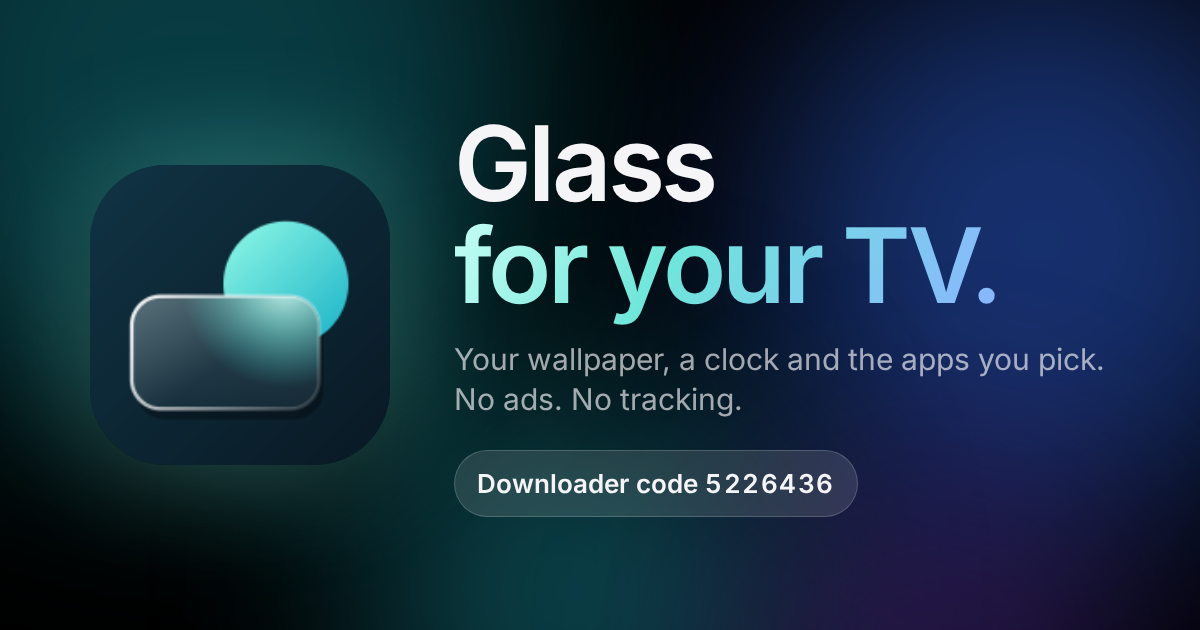
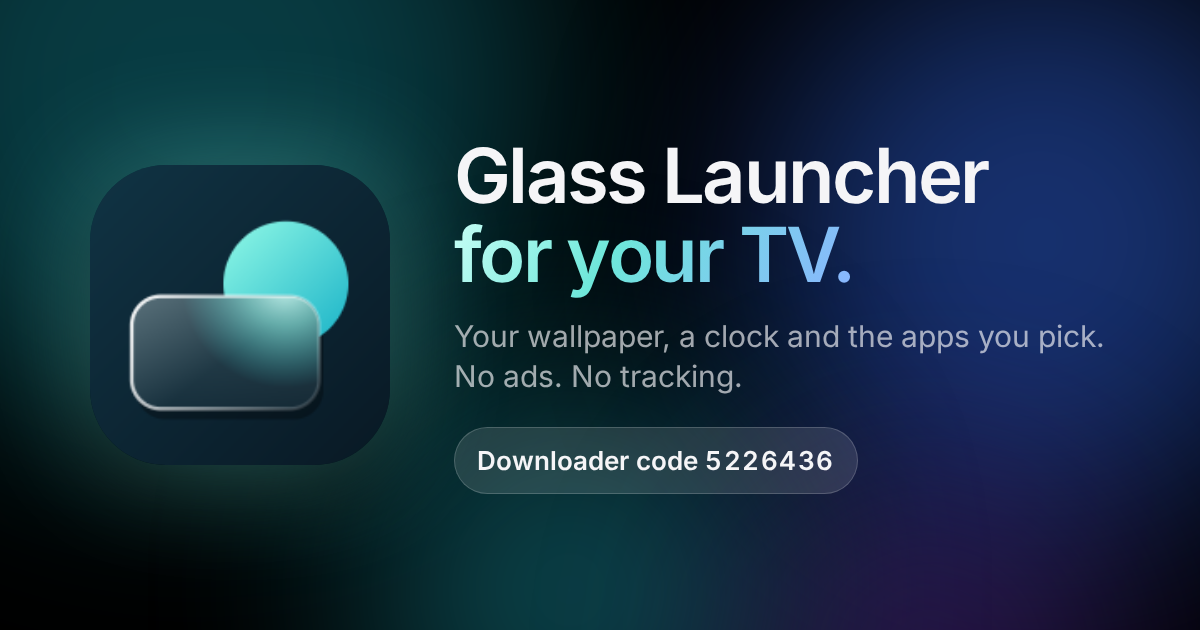
feat: Use the full Glass Launcher name
The app label, debug label and TV banner now say Glass Launcher instead
of Glass, and so does the website and its share card. The banner stacks
the wordmark on two lines next to the icon. Version 1.0.1 (code 2) so
the new label reaches installed TVs.

Changed region(s): [[0.37, 0.3619, 0.925, 0.8444], [0.37, 0.181, 0.8325, 0.3317]]

diff --git a/site/index.html b/site/index.html
@@ -3,8 +3,8 @@
 <head>
 <meta charset="utf-8">
 <meta name="viewport" content="width=device-width, initial-scale=1">
-<title>Glass — a quiet home screen for your TV</title>
-<meta name="description" content="Glass is a free, tiny home screen for Android TV, Google TV and Fire TV. Your wallpaper, a clock and the apps you pick. No ads, no recommendations, no tracking.">
+<title>Glass Launcher — a quiet home screen for your TV</title>
+<meta name="description" content="Glass Launcher is a free, tiny home screen for Android TV, Google TV and Fire TV. Your wallpaper, a clock and the apps you pick. No ads, no recommendations, no tracking.">
 <meta name="theme-color" content="#000000">
 <link rel="canonical" href="https://glass.namillis.me/">
 <link rel="icon" href="assets/favicon.svg" type="image/svg+xml">
@@ -13,7 +13,7 @@
 <link rel="preload" href="assets/inter-latin.woff2" as="font" type="font/woff2" crossorigin>
 <meta property="og:type" content="website">
 <meta property="og:site_name" content="Glass Launcher">
-<meta property="og:title" content="Glass — a quiet home screen for your TV">
+<meta property="og:title" content="Glass Launcher — a quiet home screen for your TV">
 <meta property="og:description" content="Your wallpaper, a clock and the apps you pick. No ads, no tracking. Downloader code 5226436.">
 <meta property="og:url" content="https://glass.namillis.me/">
 <meta property="og:image" content="https://glass.namillis.me/assets/og.png">
@@ -34,7 +34,7 @@
 <div class="wrap">
   <nav class="nav" aria-label="Main">
     <div class="bar platter">
-      <a class="brand" href="#top"><img src="assets/icon-96.png" alt="" width="28" height="28">Glass</a>
+      <a class="brand" href="#top"><img src="assets/icon-96.png" alt="" width="28" height="28">Glass Launcher</a>
       <ul class="links">
         <li><a href="#features">Features</a></li>
         <li><a href="#screens">Screens</a></li>
@@ -42,26 +42,26 @@
         <li><a href="#privacy">Privacy</a></li>
         <li><a href="#faq">FAQ</a></li>
       </ul>
-      <a class="btn btn-glass" href="#install">Get Glass</a>
+      <a class="btn btn-glass" href="#install">Download</a>
     </div>
   </nav>
 
   <main id="main">
     <header class="hero" id="top">
-      <img class="hero-icon" src="assets/icon-192.png" alt="Glass app icon" width="96" height="96">
+      <img class="hero-icon" src="assets/icon-192.png" alt="Glass Launcher app icon" width="96" height="96">
       <div><span class="eyebrow">For Android TV, Google TV and Fire TV</span></div>
       <h1>Your TV,<br><span class="soft">without the noise.</span></h1>
-      <p class="lede">Glass is a small home screen that shows your wallpaper, a clock, and the apps you pick. No ads, no recommendations, no tracking.</p>
+      <p class="lede">Glass Launcher is a small home screen that shows your wallpaper, a clock, and the apps you pick. No ads, no recommendations, no tracking.</p>
       <div class="cta">
         <a class="btn btn-glass" href="#install"><svg viewBox="0 0 24 24" fill="none" stroke="currentColor" stroke-width="2" stroke-linecap="round" stroke-linejoin="round" aria-hidden="true"><rect x="2" y="7" width="20" height="13" rx="2"/><path d="m17 2-5 5-5-5"/></svg>Downloader code <span class="num">5226436</span></a>
         <a class="btn btn-dark" href="https://git.namillis.me/namillis/GlassLauncherTV/releases/latest/download/GlassLauncher.apk"><svg viewBox="0 0 24 24" fill="none" stroke="currentColor" stroke-width="2" stroke-linecap="round" stroke-linejoin="round" aria-hidden="true"><path d="M12 3v12"/><path d="m7 10 5 5 5-5"/><path d="M5 21h14"/></svg>Download APK</a>
       </div>
-      <p class="meta">Free · Version 1.0.0 · 182 KB · Android 8.0 or newer</p>
+      <p class="meta">Free · Version 1.0.1 · 183 KB · Android 8.0 or newer</p>
       <div class="tv-glow">
         <div class="tv platter">
           <picture>
             <source type="image/webp" srcset="assets/home-960.webp 960w, assets/home-1600.webp 1600w" sizes="(max-width: 1024px) 100vw, 980px">
-            <img src="assets/home-1600.jpg" width="1600" height="900" fetchpriority="high" alt="Glass home screen: a clock over a coastal wallpaper, with five favorite apps on a glass shelf">
+            <img src="assets/home-1600.jpg" width="1600" height="900" fetchpriority="high" alt="Glass Launcher home screen: a clock over a coastal wallpaper, with five favorite apps on a glass shelf">
           </picture>
         </div>
       </div>
@@ -69,7 +69,7 @@
 
     <section aria-label="At a glance">
       <ul class="stats platter">
-        <li class="stat"><b>182 KB</b><span>The whole app</span></li>
+        <li class="stat"><b>183 KB</b><span>The whole app</span></li>
         <li class="stat"><b>0</b><span>Ads, trackers or accounts</span></li>
         <li class="stat"><b>0</b><span>Network requests in normal use</span></li>
         <li class="stat"><b>8.0+</b><span>Android version needed</span></li>
@@ -88,11 +88,11 @@
         </div>
         <div class="tile card s2"><div class="ic"><svg viewBox="0 0 24 24" fill="none" stroke-width="2" stroke-linecap="round" stroke-linejoin="round" aria-hidden="true"><path d="M12 20h9"/><path d="M16.5 3.5a2.1 2.1 0 0 1 3 3L7 19l-4 1 1-4Z"/></svg></div><h3>Make each app yours</h3><p>Long-press to rename it, change its artwork, move it, hide it, or uninstall it.</p></div>
         <div class="tile card s2"><div class="ic"><svg viewBox="0 0 24 24" fill="none" stroke-width="2" stroke-linecap="round" stroke-linejoin="round" aria-hidden="true"><path d="M4 21v-7M4 10V3M12 21v-9M12 8V3M20 21v-5M20 12V3M1 14h6M9 8h6M17 16h6"/></svg></div><h3>Your layout</h3><p>4 to 7 icons per row, icon roundness, focus border and color, and three clock styles.</p></div>
-        <div class="tile card s3"><div class="ic"><svg viewBox="0 0 24 24" fill="none" stroke-width="2" stroke-linecap="round" stroke-linejoin="round" aria-hidden="true"><rect x="3" y="3" width="18" height="18" rx="2"/><circle cx="9" cy="9" r="2"/><path d="m21 15-3.1-3.1a2 2 0 0 0-2.8 0L6 21"/></svg></div><h3>Wallpapers and idle mode</h3><p>Use one picture or a slideshow from a folder. When the TV sits idle, Glass hides everything but the wallpaper and the clock.</p></div>
+        <div class="tile card s3"><div class="ic"><svg viewBox="0 0 24 24" fill="none" stroke-width="2" stroke-linecap="round" stroke-linejoin="round" aria-hidden="true"><rect x="3" y="3" width="18" height="18" rx="2"/><circle cx="9" cy="9" r="2"/><path d="m21 15-3.1-3.1a2 2 0 0 0-2.8 0L6 21"/></svg></div><h3>Wallpapers and idle mode</h3><p>Use one picture or a slideshow from a folder. When the TV sits idle, Glass Launcher hides everything but the wallpaper and the clock.</p></div>
         <div class="tile card s3"><div class="ic"><svg viewBox="0 0 24 24" fill="none" stroke-width="2" stroke-linecap="round" stroke-linejoin="round" aria-hidden="true"><path d="m7 7 10 10-5 5V2l5 5L7 17"/></svg></div><h3>Bluetooth and network at a glance</h3><p>See paired devices, connect them, and pair new ones from the top bar. Wi-Fi and Ethernet status sit right next to it.</p></div>
         <div class="tile card s2"><div class="ic"><svg viewBox="0 0 24 24" fill="none" stroke-width="2" stroke-linecap="round" stroke-linejoin="round" aria-hidden="true"><rect x="2" y="7" width="20" height="13" rx="2"/><path d="m17 2-5 5-5-5"/></svg></div><h3>TV inputs and remote buttons</h3><p>Put HDMI inputs in the grid. Map the color, menu and subtitle buttons to apps.</p></div>
         <div class="tile card s2"><div class="ic"><svg viewBox="0 0 24 24" fill="none" stroke-width="2" stroke-linecap="round" stroke-linejoin="round" aria-hidden="true"><path d="M21 15v4a2 2 0 0 1-2 2H5a2 2 0 0 1-2-2v-4"/><path d="m7 10 5 5 5-5"/><path d="M12 15V3"/></svg></div><h3>Backup and restore</h3><p>Save your layout and settings to a file and bring them to another TV.</p></div>
-        <div class="tile card s2"><div class="ic"><svg viewBox="0 0 24 24" fill="none" stroke-width="2" stroke-linecap="round" stroke-linejoin="round" aria-hidden="true"><path d="M3 10.5 12 3l9 7.5V20a1 1 0 0 1-1 1h-5v-6H9v6H4a1 1 0 0 1-1-1Z"/></svg></div><h3>Google TV Home, handled</h3><p>A one-time setup on the TV makes Glass the Home app. One tap undoes it.</p></div>
+        <div class="tile card s2"><div class="ic"><svg viewBox="0 0 24 24" fill="none" stroke-width="2" stroke-linecap="round" stroke-linejoin="round" aria-hidden="true"><path d="M3 10.5 12 3l9 7.5V20a1 1 0 0 1-1 1h-5v-6H9v6H4a1 1 0 0 1-1-1Z"/></svg></div><h3>Google TV Home, handled</h3><p>A one-time setup on the TV makes Glass Launcher the Home app. One tap undoes it.</p></div>
       </div>
     </section>
 
@@ -107,7 +107,7 @@
     </section>
 
     <section id="install" aria-labelledby="install-h">
-      <div class="sec-head"><h2 id="install-h">Install in about a minute.</h2><p>Glass isn't on the Play Store or Amazon Appstore. Install it with Downloader, or copy the APK over yourself.</p></div>
+      <div class="sec-head"><h2 id="install-h">Install in about a minute.</h2><p>Glass Launcher isn't on the Play Store or Amazon Appstore. Install it with Downloader, or copy the APK over yourself.</p></div>
       <div class="install platter">
         <div class="step-card card">
           <h3>With Downloader</h3><p class="sub">Easiest on Fire TV and Google TV</p>
@@ -128,14 +128,14 @@
           </ol>
         </div>
         <div class="step-card card gtv">
-          <div><h3>Make Glass your Home on Google TV</h3><p class="sub" style="margin-top:6px">No computer needed. The TV sets itself up.</p></div>
+          <div><h3>Make Glass Launcher your Home on Google TV</h3><p class="sub" style="margin-top:6px">No computer needed. The TV sets itself up.</p></div>
           <div>
             <ol class="steps">
               <li><span>Turn on <b>Developer options</b>, then <b>Network debugging</b>.</span></li>
-              <li><span>In Glass, open <b>Settings &gt; Default home &amp; backup &gt; Default home</b>.</span></li>
+              <li><span>In Glass Launcher, open <b>Settings &gt; Default home &amp; backup &gt; Default home</b>.</span></li>
               <li><span>Choose <b>Use Glass Launcher as Home</b> and accept the one-time prompt.</span></li>
             </ol>
-            <p class="fine">This turns off Google TV's own home screen, including its quick-settings sidebar. Use <b>Restore Google TV Home</b> on the same screen before you uninstall Glass.</p>
+            <p class="fine">This turns off Google TV's own home screen, including its quick-settings sidebar. Use <b>Restore Google TV Home</b> on the same screen before you uninstall Glass Launcher.</p>
           </div>
         </div>
       </div>
@@ -143,10 +143,10 @@
 
     <section id="privacy" aria-labelledby="privacy-h">
       <div class="privacy platter">
-        <div class="lead card"><h2 id="privacy-h">Nothing leaves your TV.</h2><p>Glass has no analytics, ads, accounts or background updates. Your names, artwork, shortcuts and settings stay on the device. This site doesn't track you either.</p></div>
+        <div class="lead card"><h2 id="privacy-h">Nothing leaves your TV.</h2><p>Glass Launcher has no analytics, ads, accounts or background updates. Your names, artwork, shortcuts and settings stay on the device. This site doesn't track you either.</p></div>
         <div class="priv card"><svg viewBox="0 0 24 24" fill="none" stroke-width="2" stroke-linecap="round" stroke-linejoin="round" aria-hidden="true"><path d="M12 22s8-4 8-10V5l-8-3-8 3v7c0 6 8 10 8 10Z"/></svg><div><h3>Internet only for one setup</h3><p>The Google TV Home setup talks to the TV's own debugging service at 127.0.0.1:5555. Nothing else uses the network.</p></div></div>
-        <div class="priv card"><svg viewBox="0 0 24 24" fill="none" stroke-width="2" stroke-linecap="round" stroke-linejoin="round" aria-hidden="true"><rect x="3" y="3" width="18" height="18" rx="2"/><circle cx="9" cy="9" r="2"/><path d="m21 15-3.1-3.1a2 2 0 0 0-2.8 0L6 21"/></svg><div><h3>Photos only when you ask</h3><p>Glass asks for photo access only when you choose a slideshow folder.</p></div></div>
-        <div class="priv card"><svg viewBox="0 0 24 24" fill="none" stroke-width="2" stroke-linecap="round" stroke-linejoin="round" aria-hidden="true"><path d="M13 2 3 14h9l-1 8 10-12h-9l1-8Z"/></svg><div><h3>Built small on purpose</h3><p>Plain Android SDK, no AndroidX, no native code, and one dependency. That's how it stays at 182 KB.</p></div></div>
+        <div class="priv card"><svg viewBox="0 0 24 24" fill="none" stroke-width="2" stroke-linecap="round" stroke-linejoin="round" aria-hidden="true"><rect x="3" y="3" width="18" height="18" rx="2"/><circle cx="9" cy="9" r="2"/><path d="m21 15-3.1-3.1a2 2 0 0 0-2.8 0L6 21"/></svg><div><h3>Photos only when you ask</h3><p>Glass Launcher asks for photo access only when you choose a slideshow folder.</p></div></div>
+        <div class="priv card"><svg viewBox="0 0 24 24" fill="none" stroke-width="2" stroke-linecap="round" stroke-linejoin="round" aria-hidden="true"><path d="M13 2 3 14h9l-1 8 10-12h-9l1-8Z"/></svg><div><h3>Built small on purpose</h3><p>Plain Android SDK, no AndroidX, no native code, and one dependency. That's how it stays at 183 KB.</p></div></div>
         <div class="priv card"><svg viewBox="0 0 24 24" fill="none" stroke-width="2" stroke-linecap="round" stroke-linejoin="round" aria-hidden="true"><path d="m16 18 6-6-6-6"/><path d="m8 6-6 6 6 6"/></svg><div><h3>Source you can read</h3><p>All the code is public on <a href="https://git.namillis.me/namillis/GlassLauncherTV">git.namillis.me</a>.</p></div></div>
       </div>
     </section>
@@ -164,12 +164,12 @@
     <section id="faq" aria-labelledby="faq-h">
       <div class="sec-head"><h2 id="faq-h">Questions</h2></div>
       <div class="faq">
-        <details class="card" open><summary>Is it free?</summary><p>Yes. Glass is free for personal and non-commercial use under the PolyForm Noncommercial License 1.0.0.</p></details>
-        <details class="card"><summary>How do I update it?</summary><p>Enter the same Downloader code again. New versions install over the old one and keep your settings. Glass has no background update service, so it never updates on its own.</p></details>
+        <details class="card" open><summary>Is it free?</summary><p>Yes. Glass Launcher is free for personal and non-commercial use under the PolyForm Noncommercial License 1.0.0.</p></details>
+        <details class="card"><summary>How do I update it?</summary><p>Enter the same Downloader code again. New versions install over the old one and keep your settings. Glass Launcher has no background update service, so it never updates on its own.</p></details>
         <details class="card"><summary>Will it work on Fire TV?</summary><p>Yes, on Fire TV Stick and Cube. The built-in Home setup is for Google TV. Other devices use their own way of choosing a launcher.</p></details>
-        <details class="card"><summary>How do I get Google TV's home screen back?</summary><p>Open Settings &gt; Default home &amp; backup in Glass and choose Restore Google TV Home. If Glass is already gone, connect with ADB and run:</p><pre>adb shell pm enable --user 0 com.google.android.apps.tv.launcherx
+        <details class="card"><summary>How do I get Google TV's home screen back?</summary><p>Open Settings &gt; Default home &amp; backup in Glass Launcher and choose Restore Google TV Home. If Glass Launcher is already gone, connect with ADB and run:</p><pre>adb shell pm enable --user 0 com.google.android.apps.tv.launcherx
 adb shell pm enable --user 0 com.google.android.tungsten.setupwraith</pre></details>
-        <details class="card"><summary>Why isn't it on the Play Store?</summary><p>Glass is sideload-only. Downloader code 5226436 always points at the latest release.</p></details>
+        <details class="card"><summary>Why isn't it on the Play Store?</summary><p>Glass Launcher is sideload-only. Downloader code 5226436 always points at the latest release.</p></details>
       </div>
     </section>
 
@@ -177,12 +177,12 @@ adb shell pm enable --user 0 com.google.android.tungsten.setupwraith</pre></deta
       <img class="hero-icon" src="assets/icon-192.png" alt="" width="72" height="72" loading="lazy">
       <h2>Press Home. Pick an app.<br>That's it.</h2>
       <p>Enter code 5226436 in Downloader, or grab the APK.</p>
-      <div class="cta"><a class="btn btn-glass" href="#install">Install Glass</a><a class="btn btn-dark" href="https://git.namillis.me/namillis/GlassLauncherTV">View source</a></div>
+      <div class="cta"><a class="btn btn-glass" href="#install">Install Glass Launcher</a><a class="btn btn-dark" href="https://git.namillis.me/namillis/GlassLauncherTV">View source</a></div>
     </div>
   </main>
 
   <footer class="foot">
-    <span>Glass Launcher 1.0.0 · PolyForm Noncommercial 1.0.0 · by namillis</span>
+    <span>Glass Launcher 1.0.1 · PolyForm Noncommercial 1.0.0 · by namillis</span>
     <ul>
       <li><a href="https://git.namillis.me/namillis/GlassLauncherTV">Source</a></li>
       <li><a href="https://git.namillis.me/namillis/GlassLauncherTV/releases">Releases</a></li>

diff --git a/scripts/og-card.html b/scripts/og-card.html
@@ -8,11 +8,11 @@
  .b1 { width: 700px; height: 700px; left: -160px; top: -260px; } .b2 { width: 560px; height: 560px; right: -120px; top: -40px; }
  .b3 { width: 420px; height: 420px; left: 360px; top: 380px; } .b4 { width: 380px; height: 380px; right: 80px; bottom: -220px; }
  .og img { width: 300px; height: 300px; border-radius: 76px; box-shadow: 0 0 120px rgba(110,231,218,.4), 0 30px 60px rgba(0,0,0,.6); flex: none; }
- .og h1 { font-size: 104px; line-height: .98; }
+ .og h1 { font-size: 76px; line-height: 1.04; white-space: nowrap; }
  .og p { margin-top: 22px; font-size: 30px; color: var(--dim); line-height: 1.35; }
  .og .code { margin-top: 30px; display: inline-block; padding: 12px 22px; border-radius: 999px; background: rgba(255,255,255,.12); border: 1px solid rgba(255,255,255,.18); font-size: 26px; font-weight: 600; }
 </style></head><body>
 <div class="og"><div class="mesh"><div class="mesh-blob b1"></div><div class="mesh-blob b2"></div><div class="mesh-blob b3"></div><div class="mesh-blob b4"></div></div>
 <img src="../site/assets/apple-touch-icon.png" alt="">
-<div><h1>Glass<br><span class="soft">for your TV.</span></h1><p>Your wallpaper, a clock and the apps you pick.<br>No ads. No tracking.</p><span class="code">Downloader code <span class="num">5226436</span></span></div></div>
+<div><h1>Glass Launcher<br><span class="soft">for your TV.</span></h1><p>Your wallpaper, a clock and the apps you pick.<br>No ads. No tracking.</p><span class="code">Downloader code <span class="num">5226436</span></span></div></div>
 </body></html>

diff --git a/site/assets/site.css b/site/assets/site.css
@@ -51,7 +51,7 @@ img { max-width: 100%; }
 
 .nav { position: sticky; top: 16px; z-index: 10; margin-top: 16px; }
 .nav .bar { display: flex; align-items: center; gap: 28px; padding: 10px 10px 10px 18px; border-radius: 999px; }
-.brand { display: flex; align-items: center; gap: 10px; font-weight: 600; letter-spacing: -.01em; }
+.brand { display: flex; align-items: center; gap: 10px; font-weight: 600; letter-spacing: -.01em; white-space: nowrap; }
 .brand img { width: 28px; height: 28px; border-radius: 8px; }
 .nav .links { display: flex; gap: 22px; margin-left: auto; font-size: 14px; color: var(--dim); list-style: none; padding: 0; }
 .nav .links a:hover { color: var(--fg); }

diff --git a/scripts/render_launcher_icons.py b/scripts/render_launcher_icons.py
@@ -6,7 +6,8 @@
 # This script draws the same composition with numpy for the legacy
 # square PNGs (res/mipmap-*/ic_launcher.png, 48-192 px), and writes the
 # Android TV banner (res/drawable/banner.xml) as a vector that reuses the
-# foreground artwork plus the "Glass" wordmark as glyph outlines.
+# foreground artwork plus the two-line "Glass Launcher" wordmark as glyph
+# outlines.
 #
 # Geometry is in the 108-unit adaptive-icon canvas. A frosted 5:3 glass
 # card sits over a sea-glass orb; the part of the orb behind the card is
@@ -163,10 +164,12 @@ ANDROID = "http://schemas.android.com/apk/res/android"
 AAPT = "http://schemas.android.com/aapt"
 BANNER_W, BANNER_H = 320.0, 180.0
 GLYPH_BOX = (23.0, 28.0, 81.0, 80.0)
-WORD = "Glass"
-WORD_SIZE = 54.0
+WORD_LINES = ("Glass", "Launcher")
+WORD_SIZE = 40.0
+WORD_LEADING = 1.08
 WORD_WEIGHT = 300
-WORD_GAP = 11.0
+WORD_GAP = 12.0
+GLYPH_SHARE = 0.46
 
 
 def wordmark_path(font_path):
@@ -182,12 +185,13 @@ def wordmark_path(font_path):
     k = WORD_SIZE / font["head"].unitsPerEm
     pen = SVGPathPen(glyphs, ntos=lambda v: f"{v:.2f}".rstrip("0").rstrip("."))
     bounds = BoundsPen(glyphs)
-    x = 0.0
-    for ch in WORD:
-        name = cmap[ord(ch)]
-        glyphs[name].draw(TransformPen(pen, (k, 0, 0, -k, x, 0)))
-        glyphs[name].draw(TransformPen(bounds, (k, 0, 0, -k, x, 0)))
-        x += glyphs[name].width * k
+    for row, line in enumerate(WORD_LINES):
+        x, y = 0.0, row * WORD_SIZE * WORD_LEADING
+        for ch in line:
+            name = cmap[ord(ch)]
+            glyphs[name].draw(TransformPen(pen, (k, 0, 0, -k, x, y)))
+            glyphs[name].draw(TransformPen(bounds, (k, 0, 0, -k, x, y)))
+            x += glyphs[name].width * k
     return pen.getCommands(), bounds.bounds
 
 
@@ -200,7 +204,7 @@ def write_banner(font_path):
 
     word, (wx0, wy0, wx1, wy1) = wordmark_path(font_path)
     gx0, gy0, gx1, gy1 = GLYPH_BOX
-    glyph_h = BANNER_H * 0.5
+    glyph_h = BANNER_H * GLYPH_SHARE
     scale = glyph_h / (gy1 - gy0)
     glyph_w = (gx1 - gx0) * scale
     total = glyph_w + WORD_GAP + (wx1 - wx0)

diff --git a/CHANGELOG.md b/CHANGELOG.md
@@ -7,13 +7,20 @@ and the project adheres to [Semantic Versioning](https://semver.org/spec/v2.0.0.
 
 ## [Unreleased]
 
+## [1.0.1] — 2026-10-09
+
+### Changed
+
+- **The app shows its full name, Glass Launcher.** The label under the app
+  tile and the TV banner now say Glass Launcher instead of Glass.
+
 ## [1.0.0] — 2026-10-09
 
 ### Changed
 
 - **New name and app ID.** The launcher is now Glass Launcher, with the app ID
   `tv.glass.launcher`. It installs as a new app next to the old one. Set Glass
-  as the Home app, then uninstall the old launcher.
+  Launcher as the Home app, then uninstall the old launcher.
 - **New icon and TV banner.** A frosted-glass card over a sea-glass orb,
   matching the launcher's glass menus.
 - **Settings start fresh.** Backups made with the old app use a different
